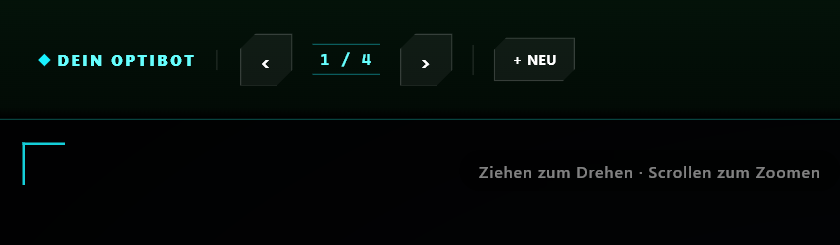
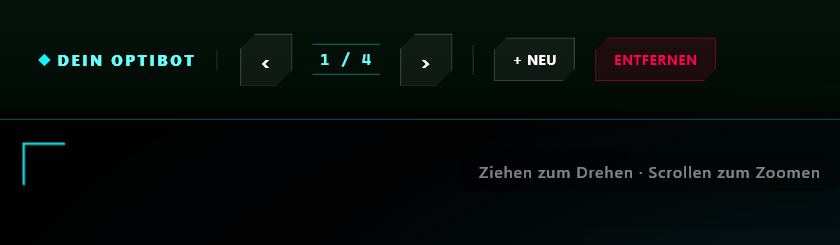
v1.0.1: fix installer re-run on relaunch, arbitrary bot deletion, split materials/effects, calmer eyes, realism pass

Changed region(s): [[0.681, 0.1429, 0.8667, 0.3429], [0.031, 0.5714, 0.0929, 0.6]]

diff --git a/script.js b/script.js
@@ -517,8 +517,11 @@ function drawEyeShapePoly(ctx, cx, cy, radius, points, colorCss, now, idx, isGli
     const tension = 0.5;
     const disp = [];
     for (let i = 0; i < n; i++) {
-        const wobbleX = Math.sin(now * 0.003 + i + idx + seed) * 0.015;
-        const wobbleY = Math.cos(now * 0.002 + i + idx + seed) * 0.015;
+        // Kept in sync with index.html's drawEyeShape — same "durchdreht"
+        // report applies here (this is what shows on the website's own
+        // demo bots), same fix: slower + smaller.
+        const wobbleX = Math.sin(now * 0.002 + i + idx + seed) * 0.009;
+        const wobbleY = Math.cos(now * 0.0013 + i + idx + seed) * 0.009;
         disp.push([points[i][0] + wobbleX, points[i][1] + wobbleY]);
     }
     for (let i = 0; i < n; i++) {
@@ -541,21 +544,23 @@ function drawEyeShapePoly(ctx, cx, cy, radius, points, colorCss, now, idx, isGli
     if (isGlitch) {
         ctx.clip();
         const bands = 5;
-        // Reported as too strong and running too long — this re-rolled
-        // Math.random() every single frame, so a Glitch-styled bot strobed
-        // continuously and hard for as long as it stayed on screen. Held
-        // shift per ~140ms tick (deterministic hash instead of Math.random,
-        // so it doesn't need any extra state) plus a smaller amplitude reads
-        // as an occasional brief flicker instead of nonstop chaos.
-        const glitchTick = Math.floor(now / 140);
-        for (let i = 0; i < bands; i++) {
-            const bY = -radius + (i / bands) * (radius * 2);
-            const bH = (radius * 2) / bands;
-            const pseudo = Math.sin(glitchTick * 12.9898 + i * 78.233) * 43758.5453;
-            const shiftFrac = (pseudo - Math.floor(pseudo)) - 0.5;
-            const shiftX = shiftFrac * 0.08 * radius;
-            ctx.fillStyle = i % 2 === 0 ? colorCss : '#ff0055';
-            ctx.fillRect(-radius + shiftX, bY, radius * 2, bH);
+        // Still reported as constant twitching even fully deterministic —
+        // kept in sync with index.html's same fix: slower ticks (220ms) and
+        // most ticks show nothing at all, so bands only burst in on roughly
+        // 1 in 4 ticks instead of every single one.
+        const glitchTick = Math.floor(now / 220);
+        const gatePseudo = Math.sin(glitchTick * 91.345) * 47453.5453;
+        const gateFrac = gatePseudo - Math.floor(gatePseudo);
+        if (gateFrac < 0.25) {
+            for (let i = 0; i < bands; i++) {
+                const bY = -radius + (i / bands) * (radius * 2);
+                const bH = (radius * 2) / bands;
+                const pseudo = Math.sin(glitchTick * 12.9898 + i * 78.233) * 43758.5453;
+                const shiftFrac = (pseudo - Math.floor(pseudo)) - 0.5;
+                const shiftX = shiftFrac * 0.08 * radius;
+                ctx.fillStyle = i % 2 === 0 ? colorCss : '#ff0055';
+                ctx.fillRect(-radius + shiftX, bY, radius * 2, bH);
+            }
         }
     }
     ctx.restore();

diff --git a/anleitung.html b/anleitung.html
@@ -430,7 +430,8 @@
                 <li><b>Kategorie-Leiste:</b> Die drei Symbole rechts am Panel wechseln zwischen Bot &amp; Engine, Farbe &amp; Material und Accessoires — wie bei einem echten Charakter-Editor.</li>
                 <li><b>Teile lackieren:</b> Klicke ein Körperteil direkt am 3D-Modell an (oder wähle es im Farbe-Tab) und such dir eine Farbe aus — Änderungen erscheinen sofort auf dem echten Bot.</li>
                 <li><b>Accessoires:</b> Ziehe Hexenhut, Antenne, Ohren, VR-Brille oder ein anderes Rad einfach per Drag &amp; Drop auf den Bot, oder klicke die Kachel an.</li>
-                <li><b>Materialien pro Teil:</b> Von Chrome über Carbon bis Gloss — echte Oberflächen-Presets mit realistischen Reflexionen. Die „Oberfläche"-Auswahl gilt für das gerade ausgewählte Teil, also lassen sich z. B. Körper und Rad unterschiedlich einstellen statt nur eine Oberfläche für den ganzen Bot. Dazu fünf <b>Elementar-Presets</b> (Rostig, Wasser, Feuer, Erde, Luft) mit echten, teils animierten Texturen — Feuer glimmt, Wasser kräuselt sich.</li>
+                <li><b>Materialien pro Teil:</b> Von Chrome über Carbon bis Gloss — echte Oberflächen-Presets mit realistischen Reflexionen. Die „Oberfläche"-Auswahl gilt für das gerade ausgewählte Teil, also lassen sich z. B. Körper und Rad unterschiedlich einstellen statt nur eine Oberfläche für den ganzen Bot.</li>
+                <li><b>Elementar-Effekte:</b> Rostig, Wasser, Feuer, Erde oder Luft — mit echten, teils animierten Texturen (Feuer glimmt, Wasser kräuselt sich). Ein Effekt liegt zusätzlich <i>über</i> der Oberfläche, statt sie zu ersetzen: dein Chrome-Rad kann also gleichzeitig auch rostig sein.</li>
                 <li><b>Umgebungslicht:</b> Sunset, Night, Neon, Cinematic oder Studio — bestimmt, wie sich Licht auf dem Bot spiegelt.</li>
                 <li><b>Speichern:</b> Jede Änderung wird sofort automatisch gesichert — der „Speichern"-Button bestätigt das nur noch einmal sichtbar. Separate Profile gibt es nicht, nur deine 5 Bots (siehe unten).</li>
             </ul>
@@ -445,7 +446,7 @@
             <p>Du kannst bis zu <b>fünf Bots gleichzeitig</b> auf dem Desktop haben — jeder mit eigenem Look und eigener Aufgabe.</p>
             <ul>
                 <li>Oben im Studio, direkt unter „Dein OptiBot", wechselst du mit den <b>Pfeilen</b> zwischen deinen Bots — dein aktueller Bot dreht sich dabei sichtbar in die Mitte, während die anderen als kleine 3D-Vorschauen daneben stehen (Doppelklick auf eine Vorschau springt direkt zu diesem Bot). Es gibt genau <b>5 feste Bot-Plätze</b>, keine separaten Profile: Jeder Platz behält seinen eigenen Look dauerhaft.</li>
-                <li>Direkt unter dem Bot kannst du ihm über das Namensfeld einen eigenen Namen geben. „+ Neu" holt einen weiteren Bot auf den Desktop; „Entfernen" (nur beim letzten Bot sichtbar) fragt erst mit seinem Namen nach, bevor er den Desktop verlässt — sein Look bleibt dabei gespeichert und kommt über „+ Neu" jederzeit zurück.</li>
+                <li>Direkt unter dem Bot kannst du ihm über das Namensfeld einen eigenen Namen geben. „+ Neu" holt einen weiteren Bot auf den Desktop; „Entfernen" funktioniert bei jedem deiner Bots, nicht nur beim zuletzt hinzugefügten, und fragt erst mit seinem Namen nach, bevor er den Desktop verlässt — sein Look bleibt dabei gespeichert und kommt über „+ Neu" jederzeit zurück.</li>
                 <li>Jeder Bot hat eine <b>Rolle</b> (Auto, Work oder Play): Er reagiert sichtbar, wenn die Smart Engine „seinen" Modus aktiviert — so siehst du auf einen Blick, was dein System gerade macht.</li>
             </ul>
             <img class="doc-img" src="anleitung_multibot.png" alt="Bis zu fünf OptiBots gleichzeitig, jeder mit eigenem Look">